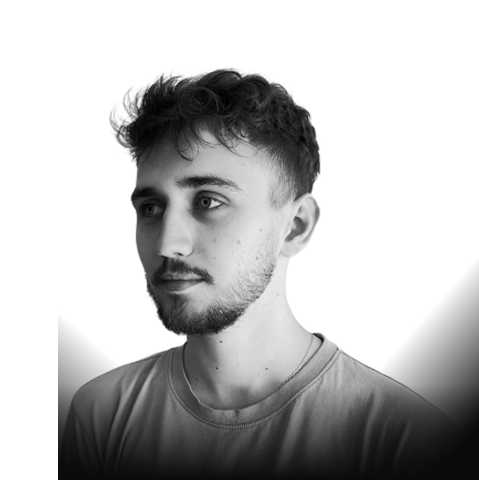
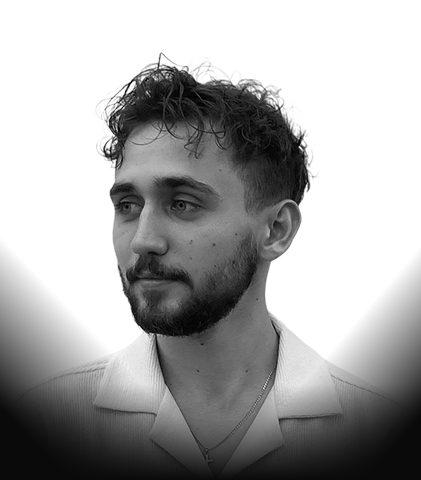
image update

diff --git a/src/components/AstroImage.vue b/src/components/AstroImage.vue
@@ -24,7 +24,7 @@ import Javascript from './icons/Javascript.vue'
 <style scoped>
 .astro-container {
   position: relative;
-  width: 420px;
+  width: 362px;
   height: 480px;
 }
 
@@ -33,7 +33,7 @@ import Javascript from './icons/Javascript.vue'
 
   position: absolute;
   top: 30%;
-  left: 16%;
+  left: 14%;
   width: 62%;
 
   display: flex;
